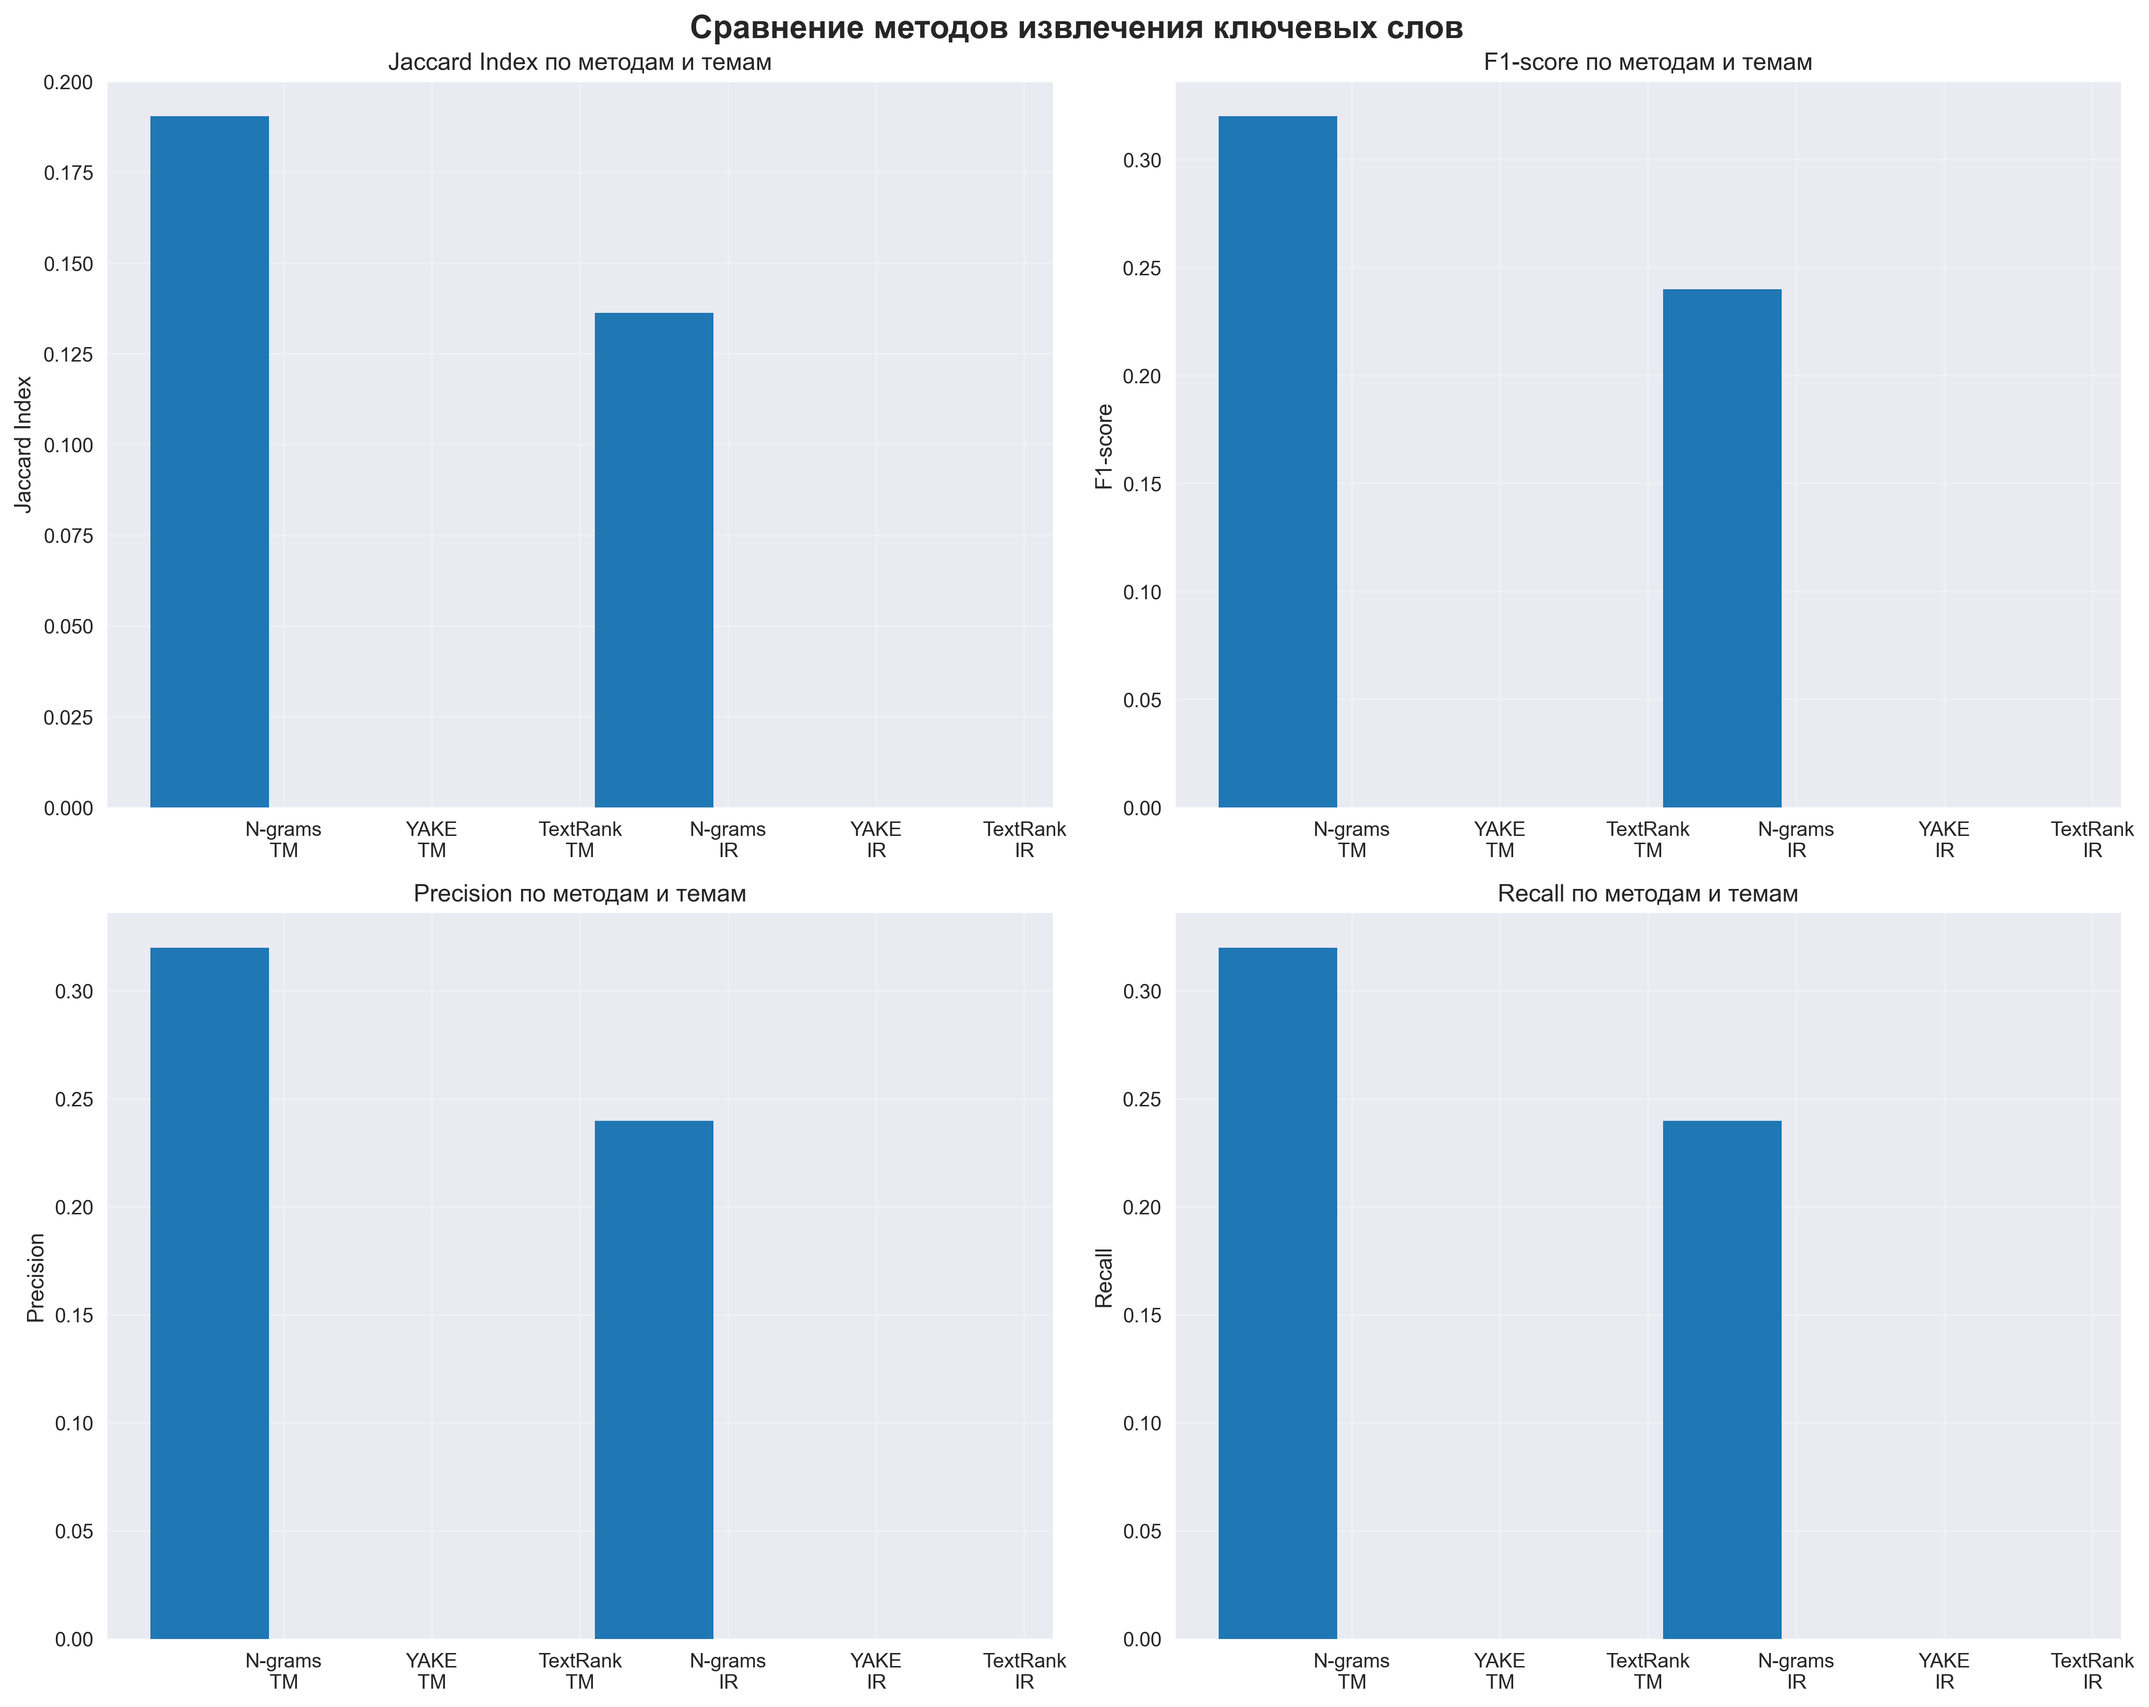
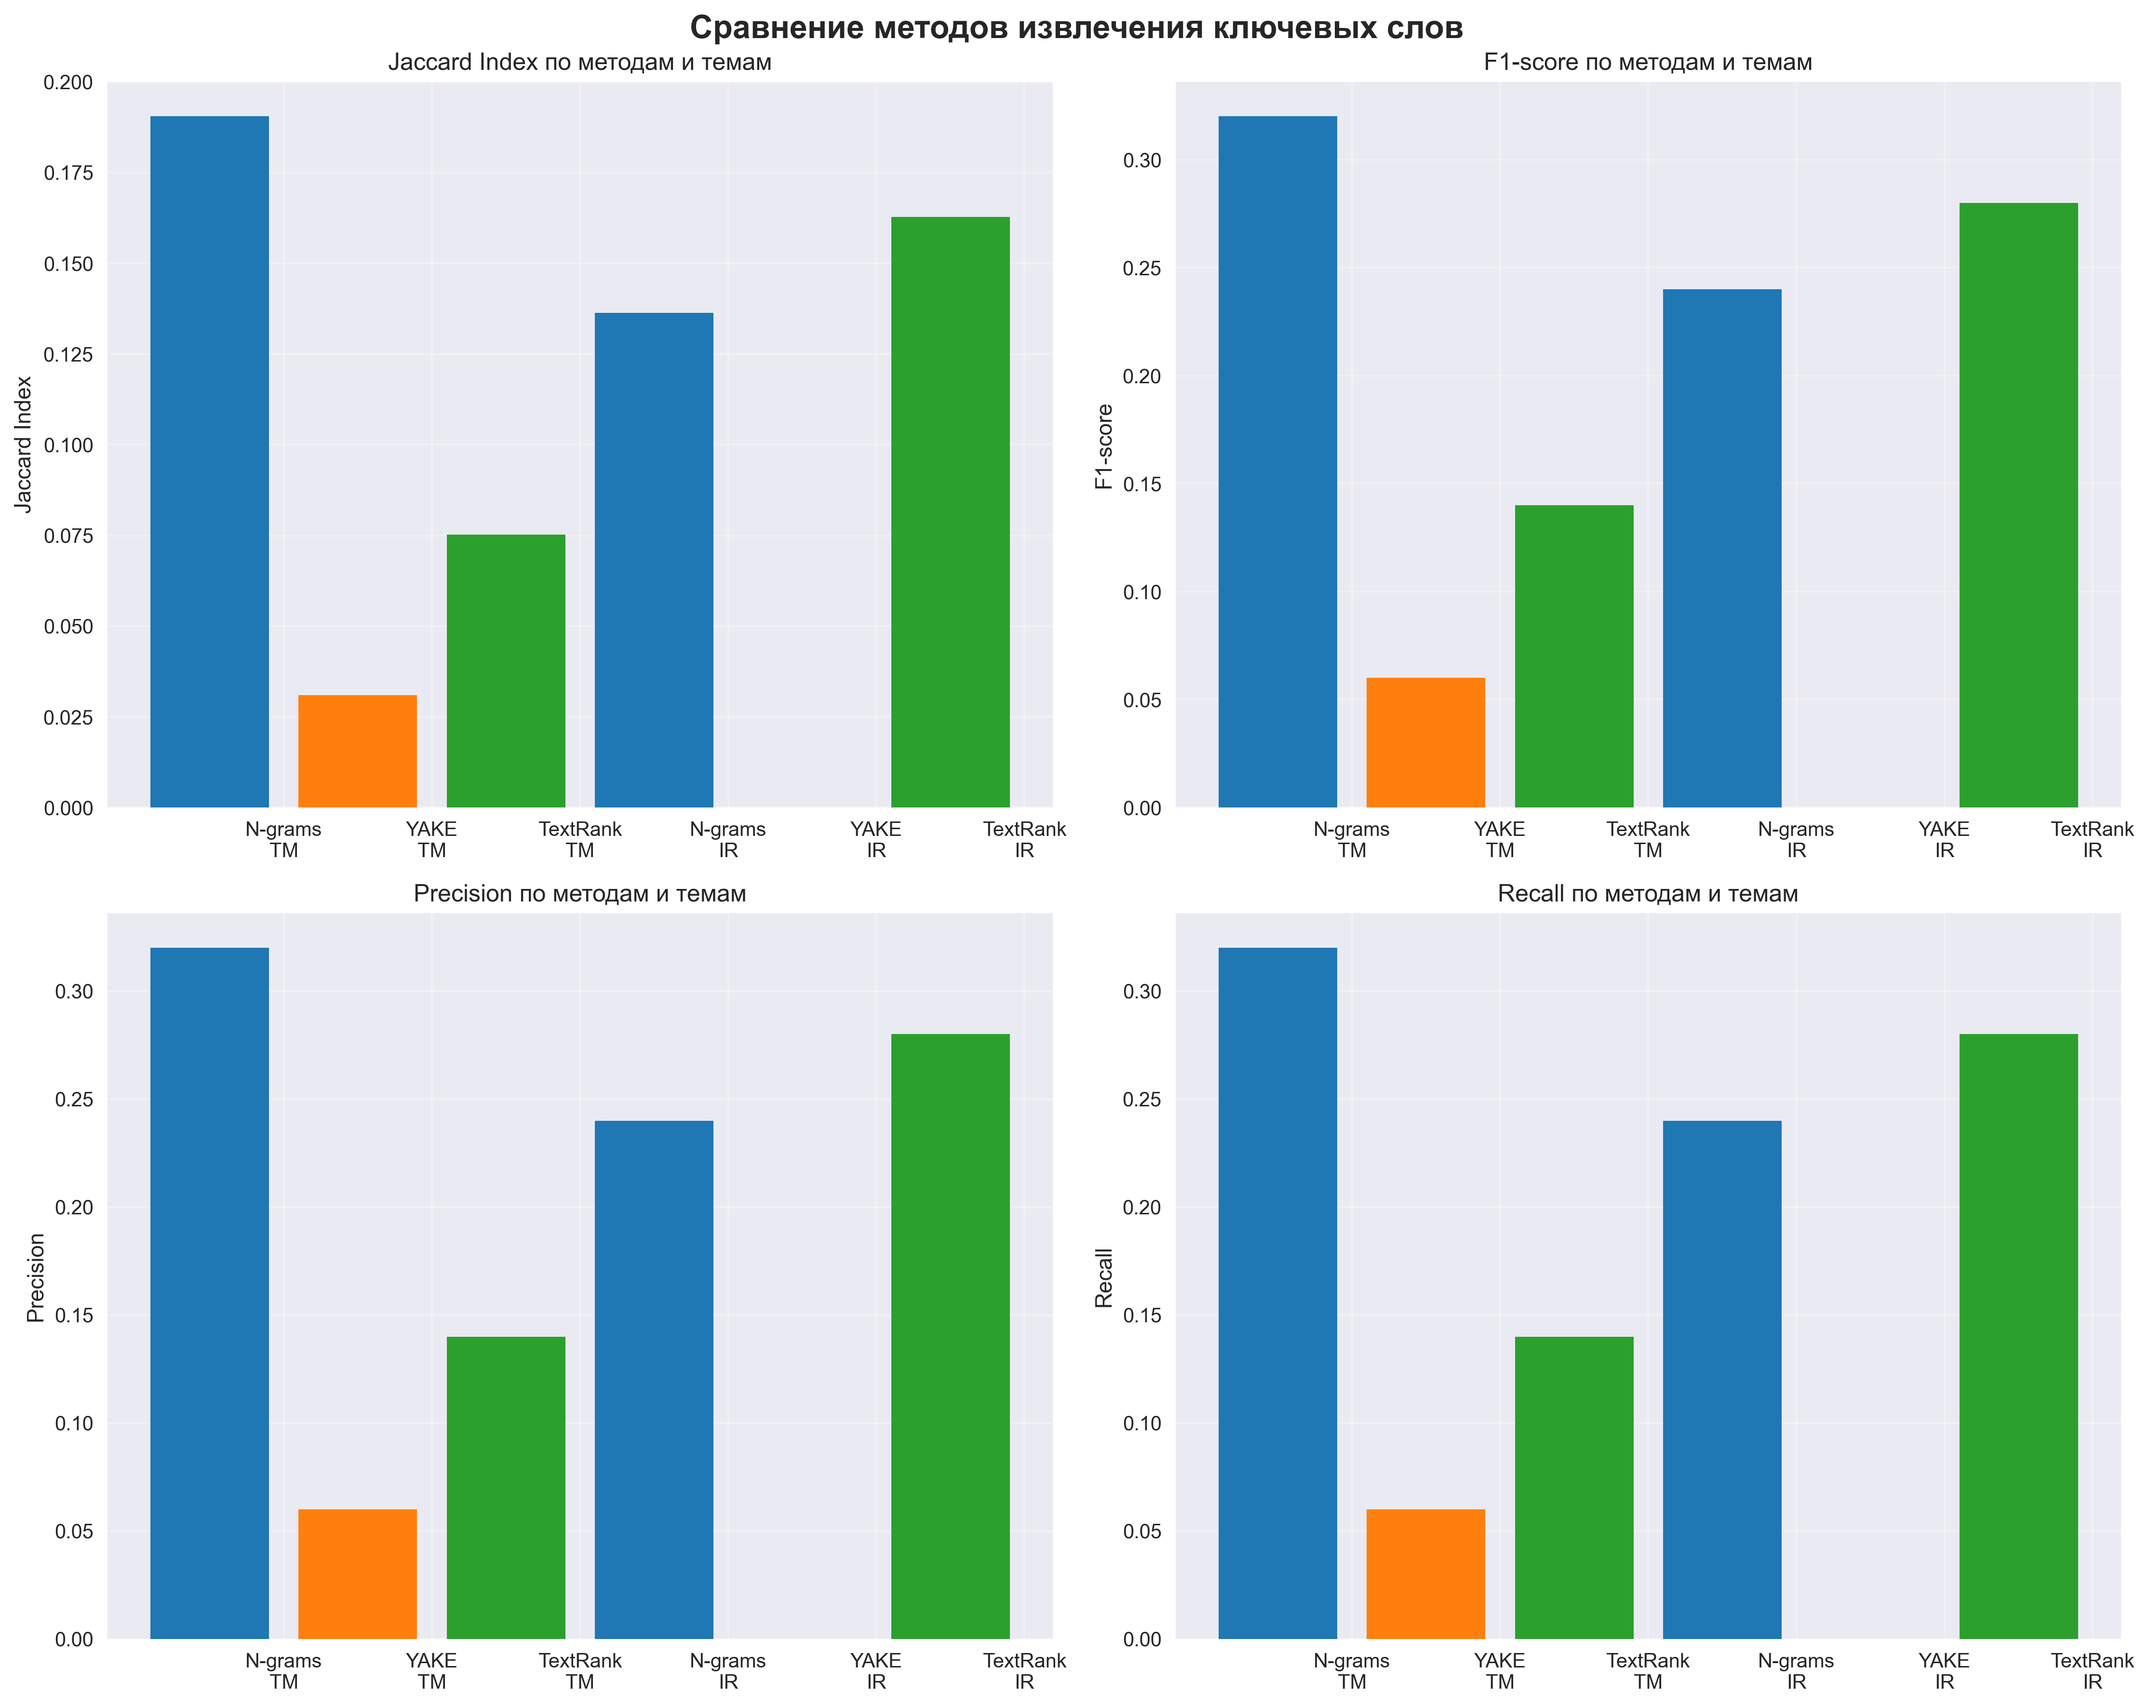
запуск yake и textrank

diff --git a/results/experiment1/experiment1_report.md b/results/experiment1/experiment1_report.md
@@ -75,36 +75,76 @@
 #### YAKE
 
 **Топ-10 ключевых слов (человеческие тексты):**
+1. datasets remains laborious
+2. curating large reasoning
+3. large reasoning datasets
+4. Large language models
+5. reasoning datasets remains
+6. demonstrated impressive reasoning
+7. Prompting Test-Time Scaling
+8. Large language
+9. curating large
+10. laborious and resource-intensive
 
 **Топ-10 ключевых слов (синтетические тексты):**
+1. large language
+2. large language models
+3. learning approaches
+4. automated machine learning
+5. machine learning
+6. distributed computing
+7. study introduces
+8. language processing conferences
+9. top-tier computer vision
+10. multimodal fusion techniques
 
 **Метрики пересечения:**
-- Jaccard Index: 0.000
-- Precision: 0.000
-- Recall: 0.000
-- F1-score: 0.000
-- Пересечение: 0 из 0 и 0
+- Jaccard Index: 0.031
+- Precision: 0.060
+- Recall: 0.060
+- F1-score: 0.060
+- Пересечение: 3 из 50 и 50
 
 **Анализ разнообразия:**
-- Человеческие тексты: уникальность 0.000, средняя длина 0.00
-- Синтетические тексты: уникальность 0.000, средняя длина 0.00
+- Человеческие тексты: уникальность 1.000, средняя длина 2.52
+- Синтетические тексты: уникальность 1.000, средняя длина 2.26
 
 #### TEXTRANK
 
 **Топ-10 ключевых слов (человеческие тексты):**
+1. reasoning
+2. models
+3. model
+4. training
+5. modeling
+6. generation
+7. learning
+8. data
+9. problems
+10. problem
 
 **Топ-10 ключевых слов (синтетические тексты):**
+1. model
+2. models
+3. approaches
+4. learning
+5. language
+6. adaptive
+7. increase
+8. bound
+9. existing
+10. including
 
 **Метрики пересечения:**
-- Jaccard Index: 0.000
-- Precision: 0.000
-- Recall: 0.000
-- F1-score: 0.000
-- Пересечение: 0 из 0 и 0
+- Jaccard Index: 0.075
+- Precision: 0.140
+- Recall: 0.140
+- F1-score: 0.140
+- Пересечение: 7 из 50 и 50
 
 **Анализ разнообразия:**
-- Человеческие тексты: уникальность 0.000, средняя длина 0.00
-- Синтетические тексты: уникальность 0.000, средняя длина 0.00
+- Человеческие тексты: уникальность 1.000, средняя длина 1.06
+- Синтетические тексты: уникальность 1.000, средняя длина 1.06
 
 ---
 
@@ -155,36 +195,76 @@
 #### YAKE
 
 **Топ-10 ключевых слов (человеческие тексты):**
+1. made significant progress
+2. spatial reasoning explorations
+3. understanding indoor scenes
+4. spatial reasoning
+5. researchers have made
+6. autonomous driving
+7. current surge
+8. made significant
+9. significant progress
+10. progress in understanding
 
 **Топ-10 ключевых слов (синтетические тексты):**
+1. late-time Universe
+2. anchors
+3. matrices
+4. rings
+5. two-qubit entangling gates
+6. gate
+7. two-qubit
+8. kinematic anchors
+9. kinematic
+10. kinematic reconstructions
 
 **Метрики пересечения:**
 - Jaccard Index: 0.000
 - Precision: 0.000
 - Recall: 0.000
 - F1-score: 0.000
-- Пересечение: 0 из 0 и 0
+- Пересечение: 0 из 50 и 50
 
 **Анализ разнообразия:**
-- Человеческие тексты: уникальность 0.000, средняя длина 0.00
-- Синтетические тексты: уникальность 0.000, средняя длина 0.00
+- Человеческие тексты: уникальность 1.000, средняя длина 2.42
+- Синтетические тексты: уникальность 1.000, средняя длина 2.10
 
 #### TEXTRANK
 
 **Топ-10 ключевых слов (человеческие тексты):**
+1. models
+2. model
+3. modeling
+4. information
+5. learning
+6. extensive
+7. diverse
+8. video
+9. knowledge
+10. data
 
 **Топ-10 ключевых слов (синтетические тексты):**
+1. model
+2. significant
+3. models
+4. modeling
+5. new
+6. anchors
+7. algorithms
+8. reconstructions
+9. reconstruction
+10. expansion
 
 **Метрики пересечения:**
-- Jaccard Index: 0.000
-- Precision: 0.000
-- Recall: 0.000
-- F1-score: 0.000
-- Пересечение: 0 из 0 и 0
+- Jaccard Index: 0.163
+- Precision: 0.280
+- Recall: 0.280
+- F1-score: 0.280
+- Пересечение: 14 из 50 и 50
 
 **Анализ разнообразия:**
-- Человеческие тексты: уникальность 0.000, средняя длина 0.00
-- Синтетические тексты: уникальность 0.000, средняя длина 0.00
+- Человеческие тексты: уникальность 1.000, средняя длина 1.06
+- Синтетические тексты: уникальность 1.000, средняя длина 1.20
 
 ---
 
@@ -195,8 +275,8 @@
 | Метод | Средний Jaccard | Средний F1 | Средняя уникальность |
 |-------|----------------|------------|---------------------|
 | NGRAMS | 0.163 | 0.280 | 1.000 |
-| YAKE | 0.000 | 0.000 | 0.000 |
-| TEXTRANK | 0.000 | 0.000 | 0.000 |
+| YAKE | 0.015 | 0.030 | 1.000 |
+| TEXTRANK | 0.119 | 0.210 | 1.000 |
 
 ### Ключевые наблюдения
 
